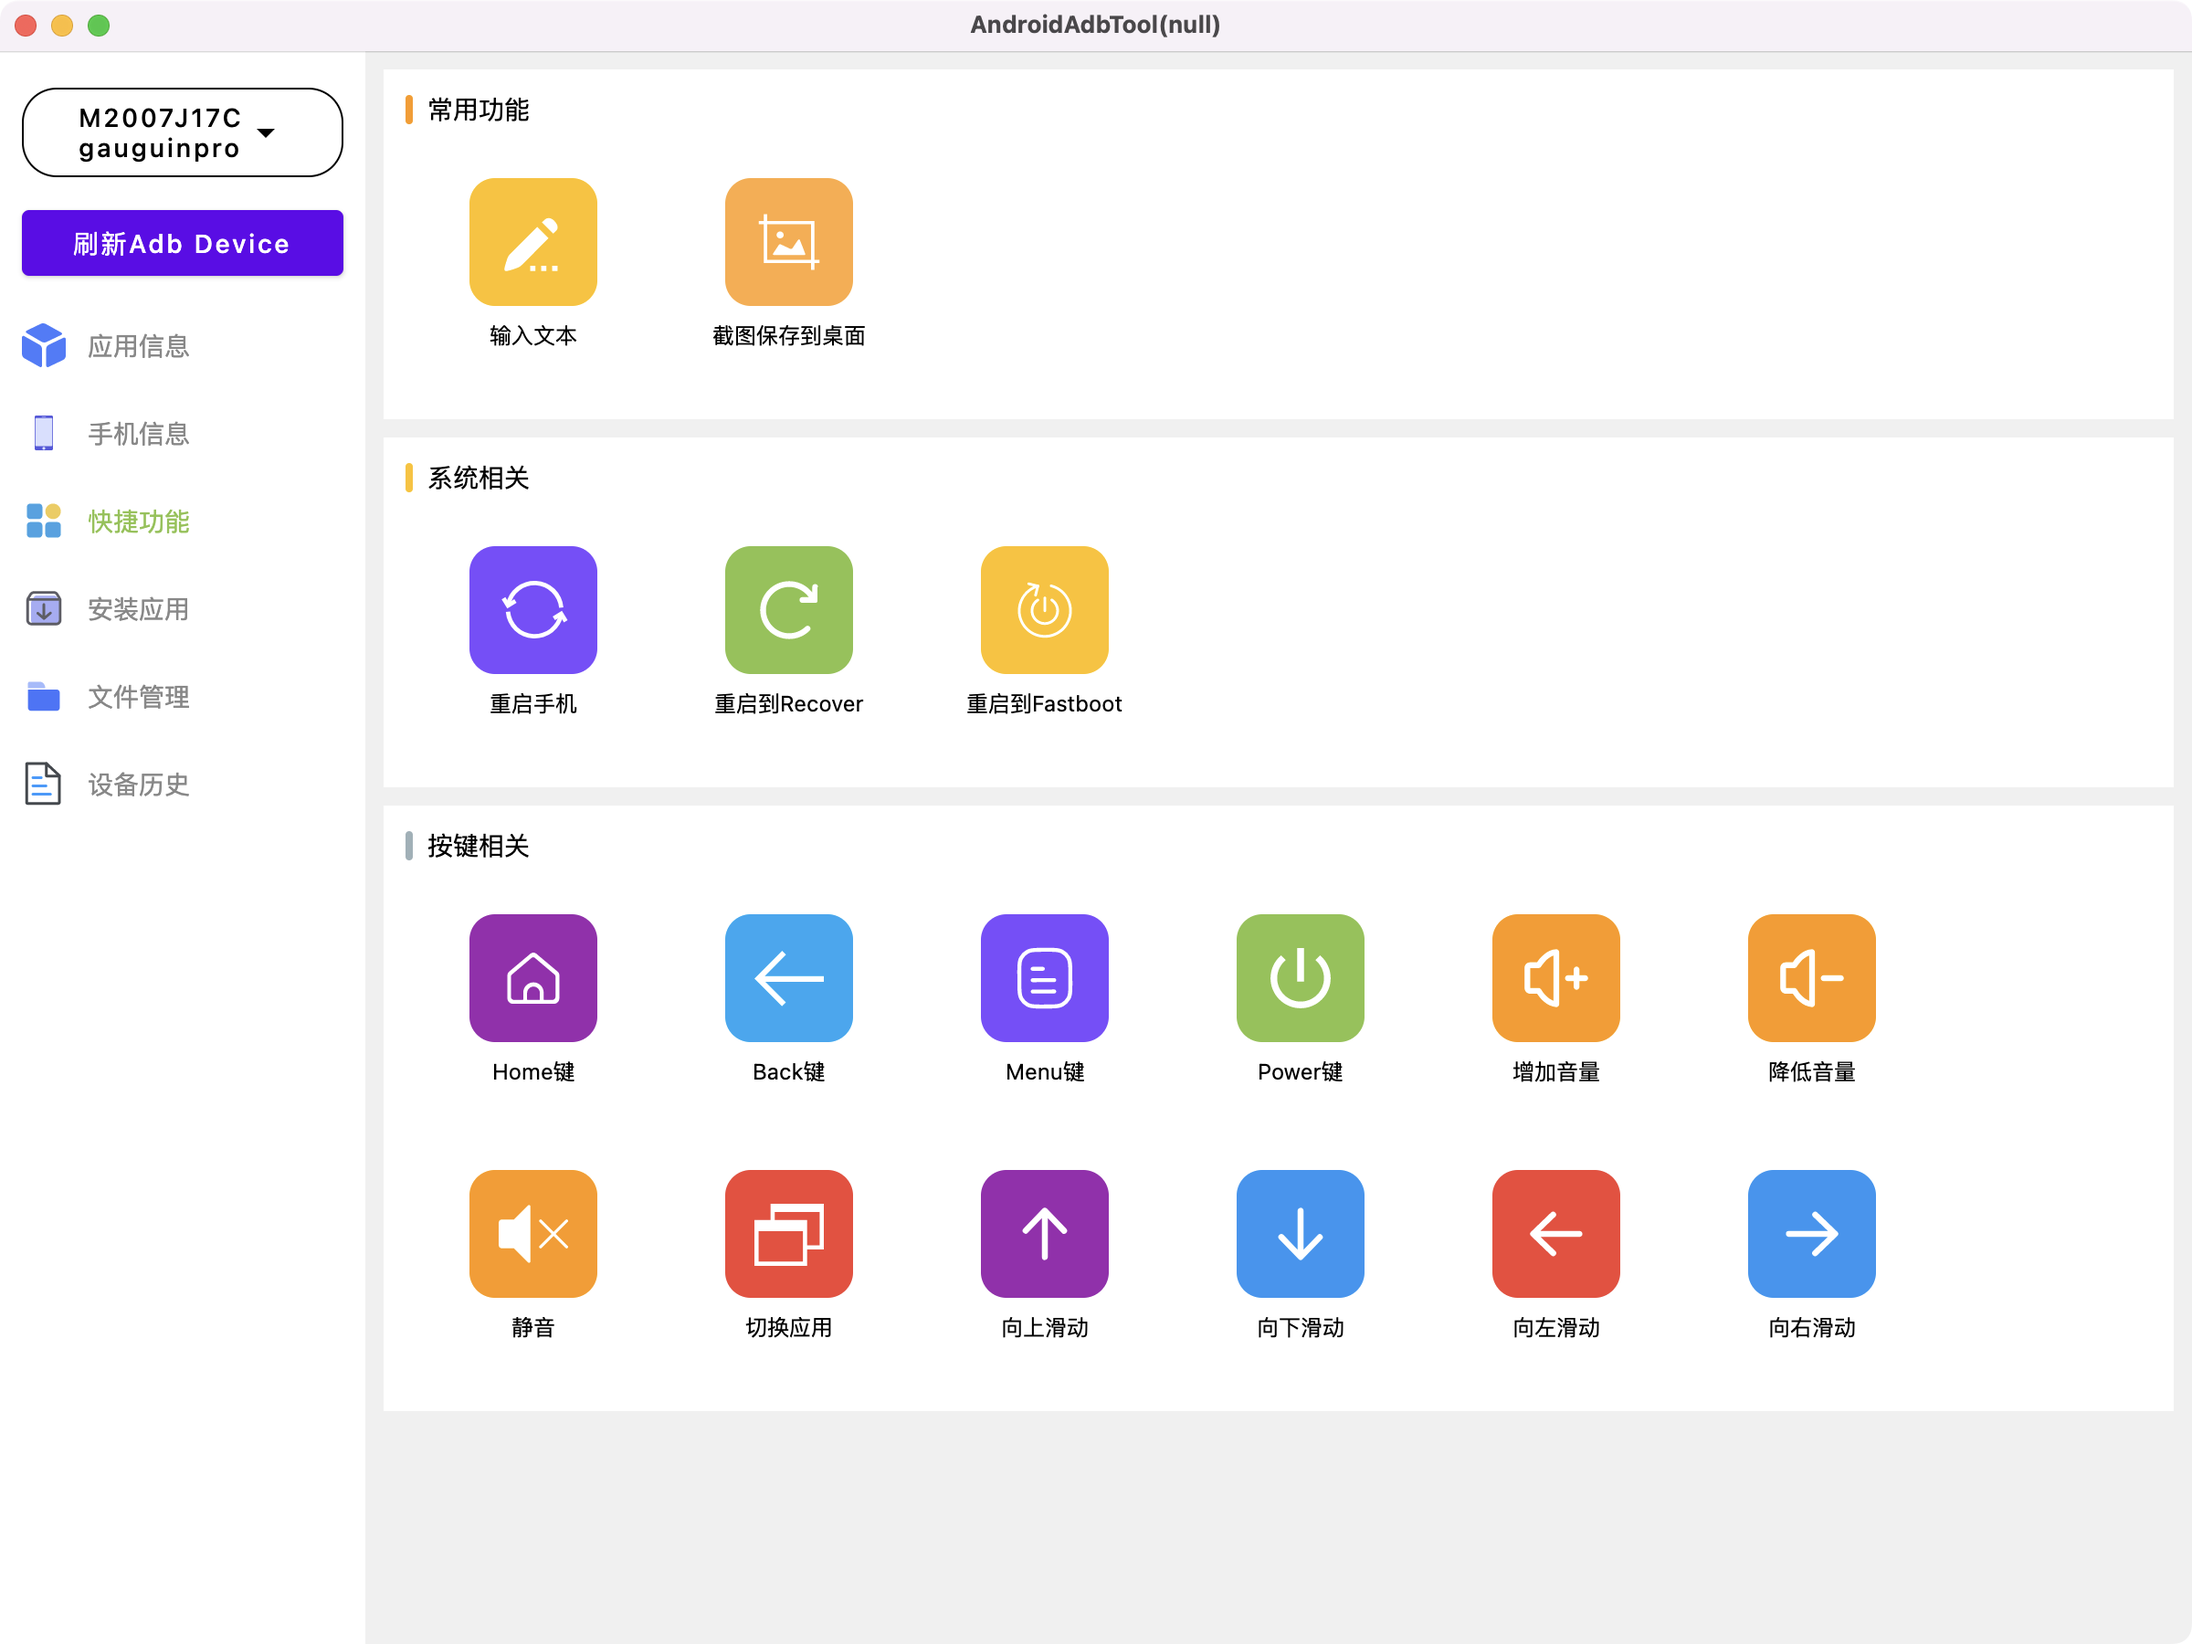
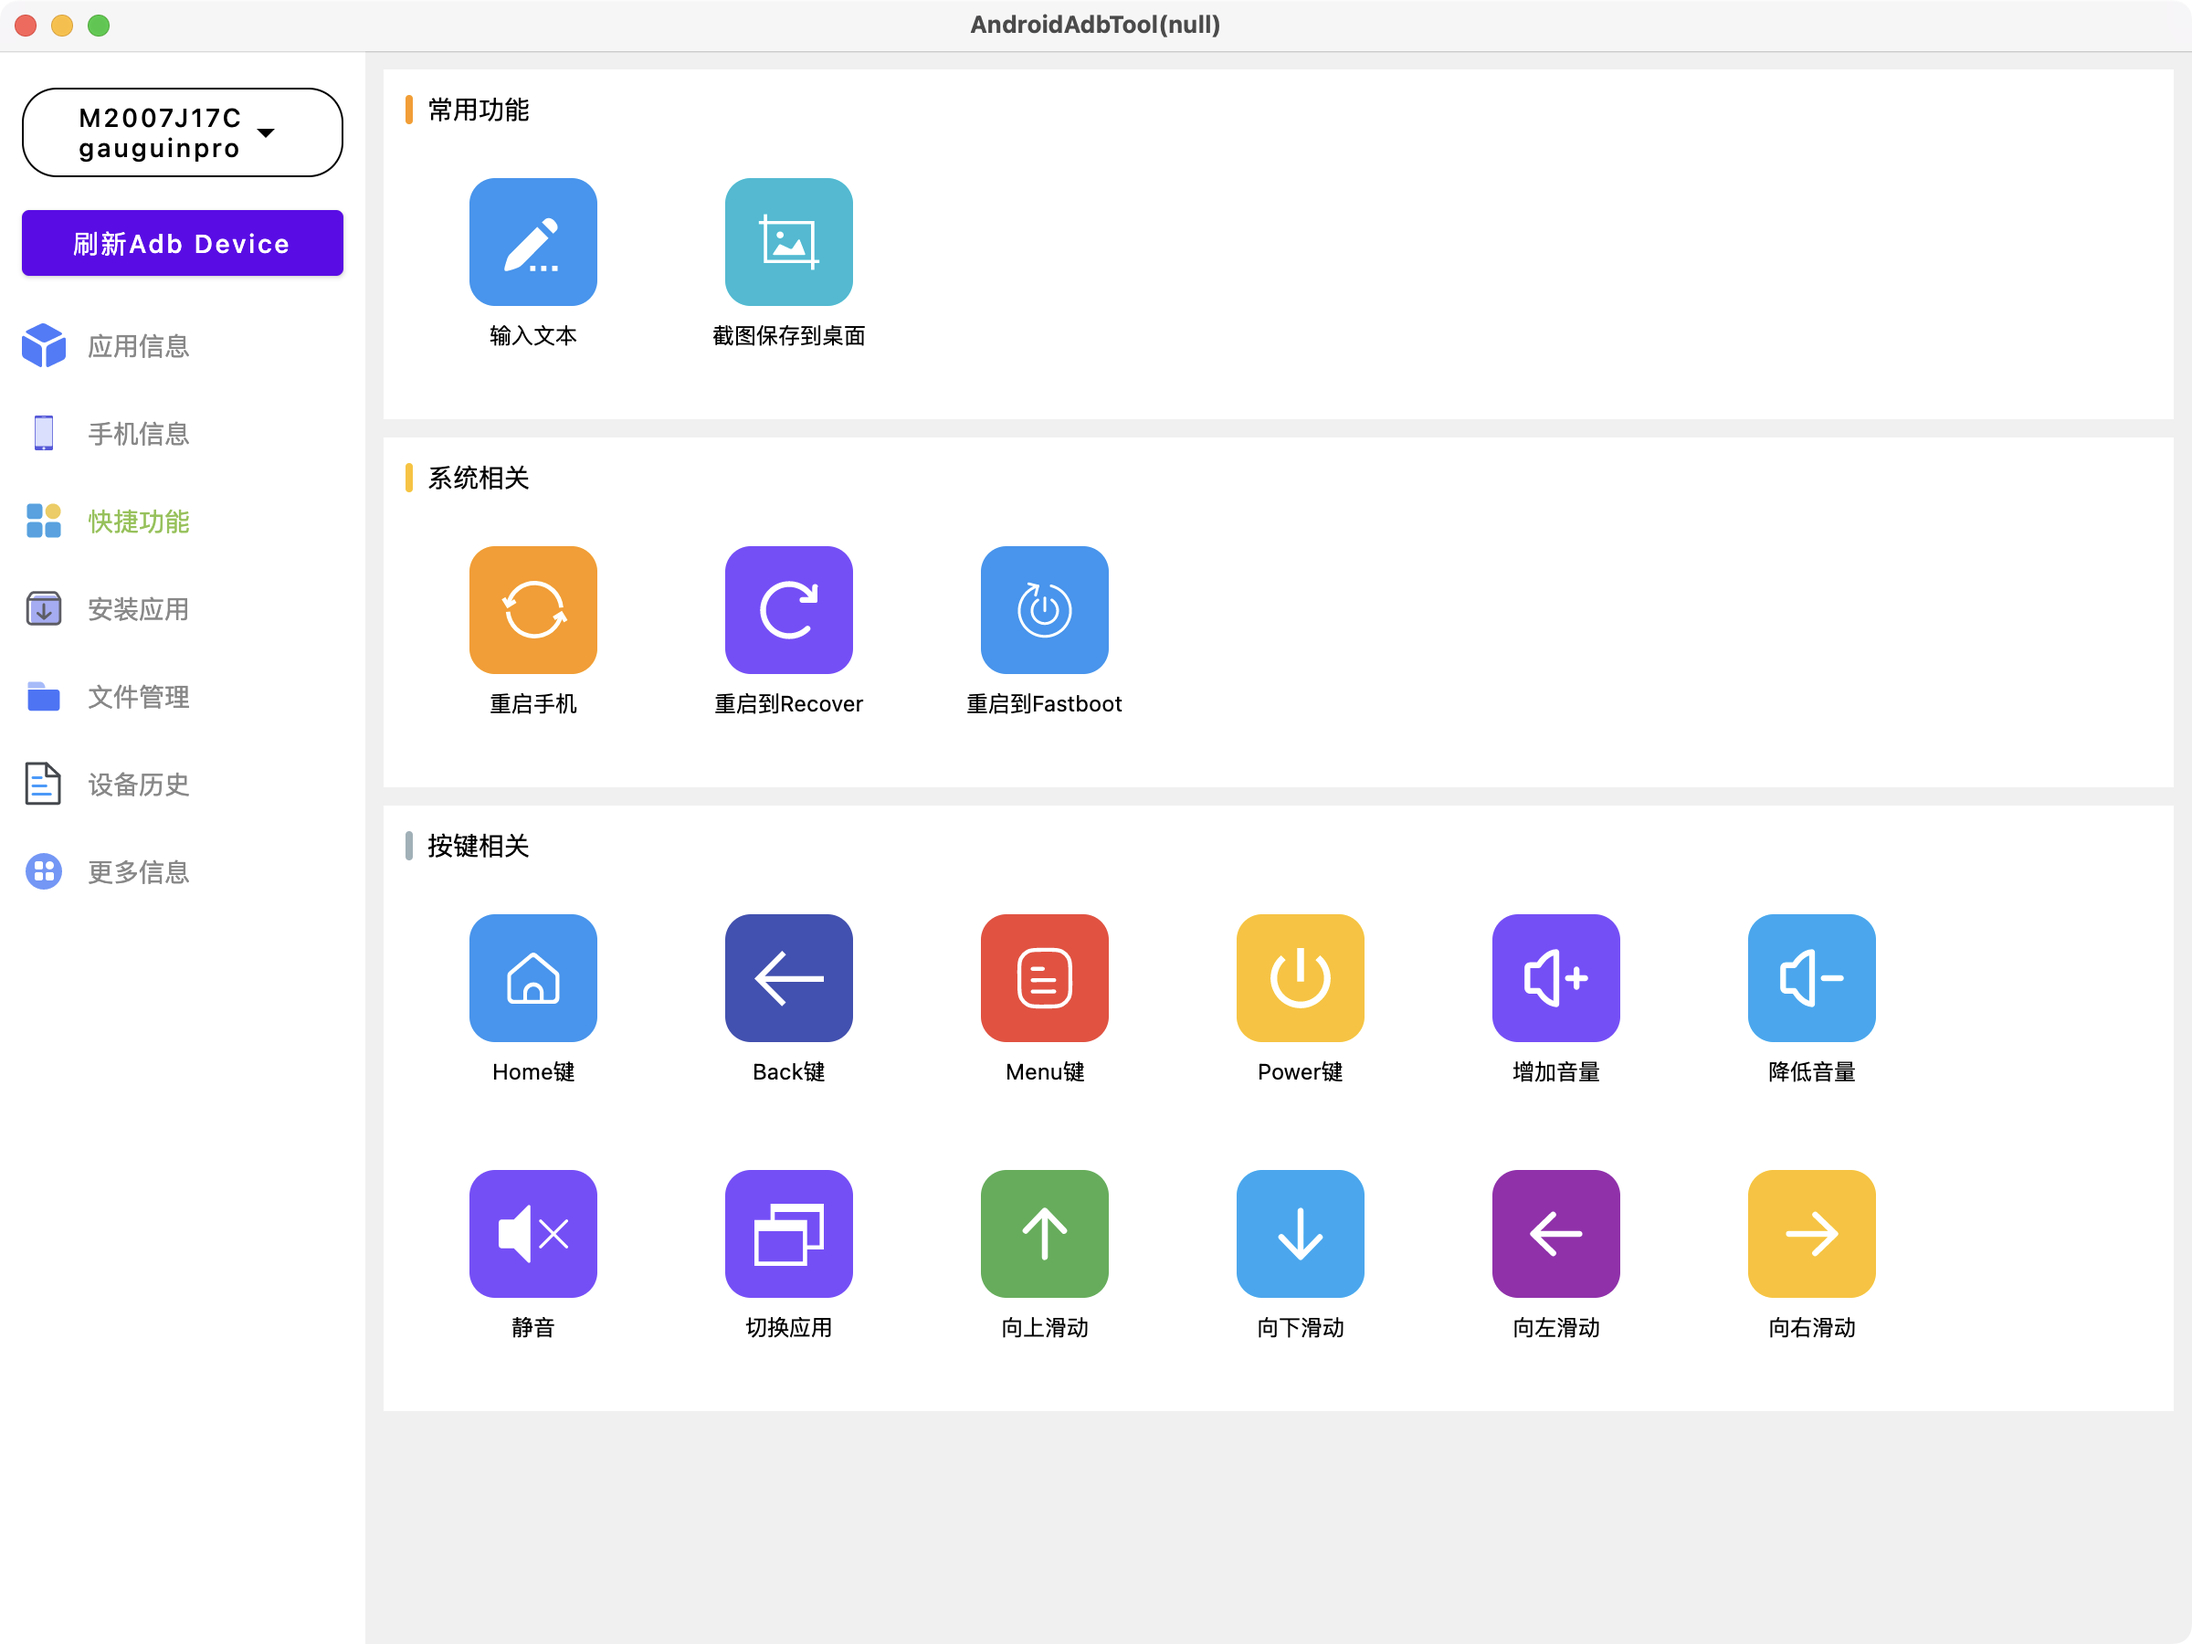
正常使用了

diff --git a/src/main/kotlin/page/AboutPage.kt b/src/main/kotlin/page/AboutPage.kt
@@ -13,8 +13,11 @@ import androidx.compose.runtime.Composable
 import androidx.compose.ui.Modifier
 import androidx.compose.ui.graphics.Color
 import androidx.compose.ui.unit.dp
+import tool.ADBUtil
+import tool.FileUtil
 import tool.PlatformUtil
 import java.awt.Desktop
+import java.io.File
 import java.net.URI
 
 /**
@@ -25,6 +28,10 @@ import java.net.URI
 fun AboutPage(){
     Column(modifier = Modifier.padding(10.dp).fillMaxWidth().background(Color.White).padding(10.dp).verticalScroll(rememberScrollState())) {
         Row {
+            Text(text = "ADB路径：")
+            Text(modifier = Modifier.clickable { FileUtil.openFileInExplorer(File(ADBUtil.ADB_PATH)) },text = ADBUtil.ADB_PATH, color = Color.Blue)
+        }
+        Row(modifier = Modifier.padding(top=10.dp)) {
             Text(text = "下载ADB（中国官方）：")
             Text(modifier = Modifier.clickable { PlatformUtil.openBrowser("https://googledownloads.cn/android/repository/platform-tools-latest-windows.zip") }, text = "Windows版本", color = Color.Blue)
             Text(text = "、")

diff --git a/src/main/kotlin/Main.kt b/src/main/kotlin/Main.kt
@@ -69,11 +69,11 @@ fun App() {
                     is QuickFun -> QuickPage(device!!)
                     is FileManage -> FileManager(device!!, ADBUtil.hasRoot(device!!.device))
                     is Install -> InstallPage(device!!)
-                    is About -> AboutPage()
                 }
             }
             when (selectMainNav) {
                 is DeviceRecord -> DeviceRecordPage(refreshConnectedDevicesList,connectedDevicesList)
+                is About -> AboutPage()
             }
         }
     }

diff --git a/README.md b/README.md
@@ -11,7 +11,7 @@
 ## 运行方式
 * 支持IDE直接运行
 * 使用`ubarJar`生成jar，可直接运行
-* ~~可以打包生成原生应用运行~~ 客户端有些问题，暂时没空排查，建议直接运行jar
+* 可以打包生成原生应用运行
 
 ## 已知问题
 * 尽量保证安装包文件名或目录中不要有中文、空格或其它符号
